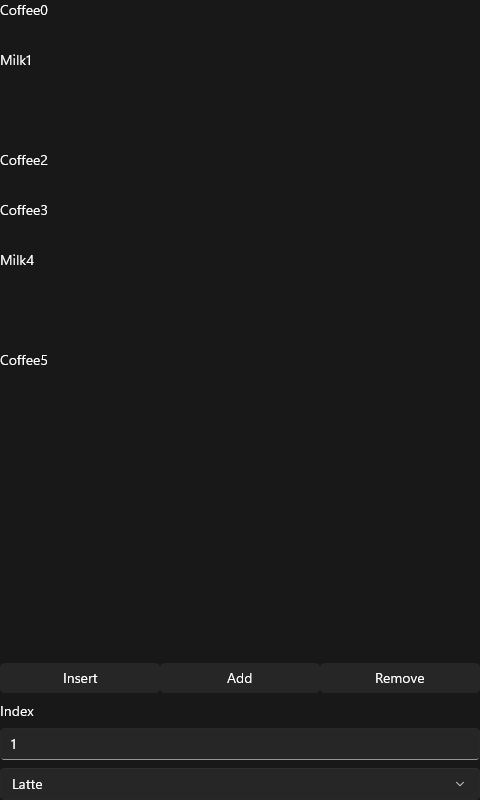
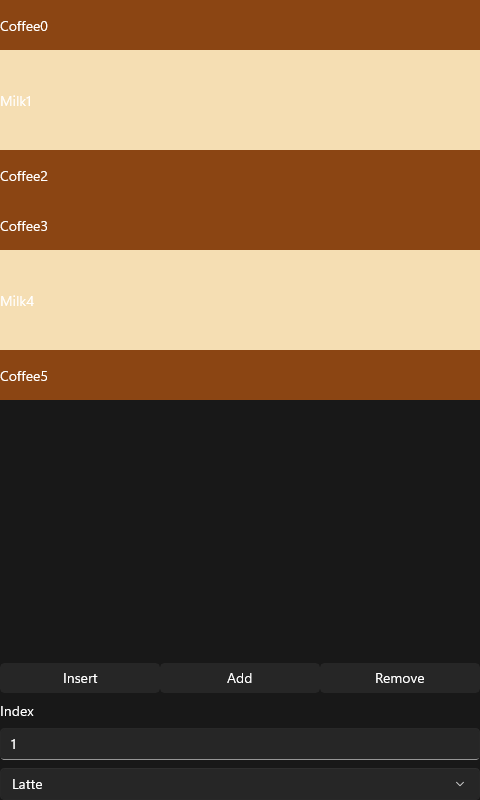
docs(parity): varied_size_selector cpp 42->99 (label-fix cascade); TODO updated

diff --git a/port/cpp/docs/comparison/WINDOWS_PARITY_TODO.md b/port/cpp/docs/comparison/WINDOWS_PARITY_TODO.md
@@ -21,6 +21,14 @@ Update as items land. `pixel_score.py` re-scores; `capture_windows.py --mode bot
   all columns+themes); headless 3490/3490 green. Cross-platform correctness — likely helps other
   nested-flex pages (staggered_layout, custom_layout, chat_example…).
 
+## Label-fix cascade (the Border-background fix reached these — cpp side largely resolved)
+- **varied_size_selector** — cpp_light 42%→**99.1%** (the Coffee/Milk cell backgrounds are Label
+  BackgroundColors); cpp_dark 92% (residual = the page's single-Label reduction lacks the MAUI
+  template's rounded corners + inter-item gaps — a page-authoring choice, not a handler bug). xaml
+  49%/42% is an xaml-gallery-page issue (the Picker shows placeholder not the bound "Latte").
+- Expect the same cascade on other pages whose cells/regions are Labels with BackgroundColor — a full
+  recapture + re-score is running to quantify.
+
 ## High value (both cpp+xaml, confirmed real)
 2. **[DONE — see above] flex_layout footer off-screen** — was: after the label fix the page
    is minor for light, but the pink FOOTER band is pushed below the 800px viewport. Root cause: the
